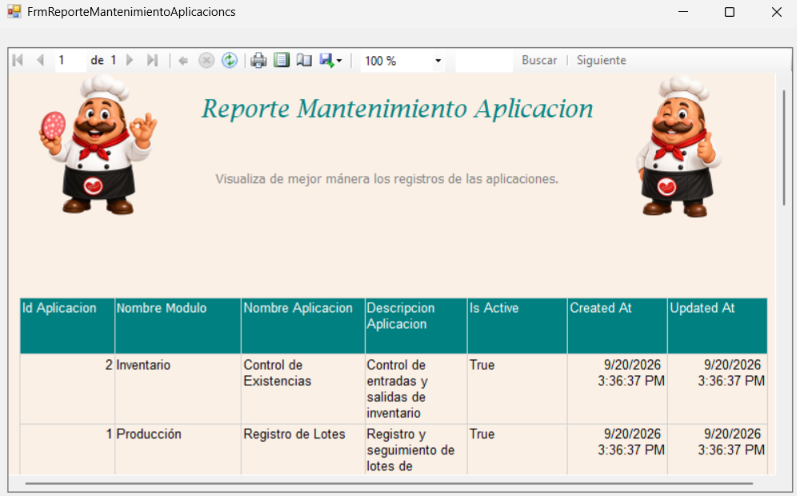
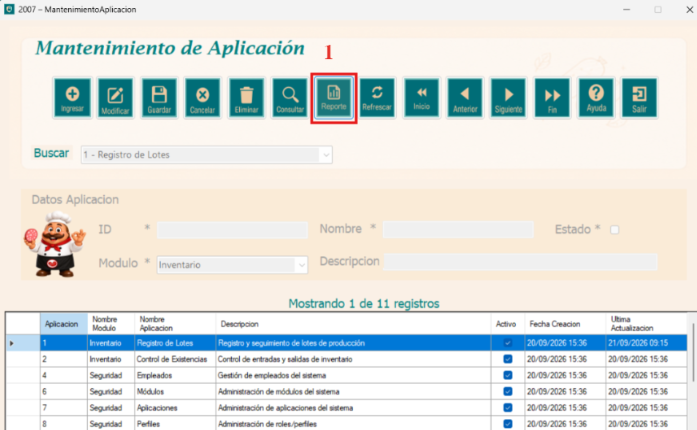
Subiendo ayudas 2.0 mejorado

diff --git a/ayuda/componentes/seguridad/SeguridadAyudas/Aplicaciones_Seguridad.html b/ayuda/componentes/seguridad/SeguridadAyudas/Aplicaciones_Seguridad.html
@@ -44,85 +44,100 @@
 
         <br><br><br>
 
-        <h2>¿Cómo ingresar una aplicación?</h2>
+        <h2>Ingresar y Guardar una Aplicación</h2>
         <br>
-        <p> A continuación se detallan los pasos:
-                1. Presionar el botón Ingresar para habilitar el formulario. 
-                2. Se selecciona el módulo al que pertenece la aplicación desde el combo desplegable.
-                3. Ingresar el nombre, la descripción y marque el checkbox de Estado, 
-                    si la aplicación estará activa. 
-                4. Una vez que se termine de llenar los campos, presionar Guardar para almacenar el registro.
+        <p> El botón Ingresar habilita el formulario para registrar una nueva aplicación. 
+            Los pasos para seguir son los siguientes:
+                1. Si se desea ingresar un registro se debe presionar el botón "Ingresar".
+                2. Se desbloquea la sección de datos y se rellenan los campos.
+                3. Se presiona el botón Guardar y mostrará un mensaje "Grabación exitosa".
         </p>
-        <img class="imgVentana" src="Imagenes/MantenimientoAplicacion/IngresarAplicacion.png">
+        <img class="imgVentana" src="Imagenes/MantenimientoAplicacion/IngresaryGuardarAplicacion.png">
 
         <br><br><br>
 
-        <h2>¿Cómo modificar una aplicación?</h2>
+        <h2>Modificar Aplicación</h2>
         <br>
-        <p> A continuación se detallan los pasos:
-                1. Seleccionar la fila correspondiente en la tabla.
-                2. Los datos se cargarán automáticamente en el formulario. 
-                3. Realice los cambios necesarios y presione el botón Modificar para guardarlos. 
-                4. Si no selecciona ninguna fila, el sistema mostrará un aviso indicando que debe seleccionar un registro primero.
-        </p>
-        <img class="imgVentana" src="Imagenes/MantenimientoAplicacion/ModificacionAplicacion.png">
+        <p> El botón Modificar permite actualizar un registro de la base de datos. 
+            Los pasos para modificar un registro son los siguientes:
+                1. Seleccionar una fila de la tabla, automáticamente se rellenan los campos del formulario.
+                2. Se cambia el campo que se desea modificar.
+                3. Se presiona el botón Modificar, mostrando un mensaje de confirmación.
+                    </p>
+        <img class="imgVentana" src="Imagenes/MantenimientoAplicacion/ModificarAplicacion.png">
 
         <br><br><br>
 
-        <h2>¿Cómo eliminar una aplicación?</h2>
+        <h2>Cancelar Aplicación</h2>
         <br>
-        <p> A continuación se detallan los pasos:
-                1. Seleccionar la fila que desea remover de la tabla.
-                2. Presionar el botón Eliminar. 
-                3. Se solicitará confirmación antes de proceder. 
-                4. Al confirmarse, el registro será removido del sistema.
+        <p> El botón Cancelar cancela la operación en curso y restablece el formulario a su estado inicial.
+            Los pasos para utilizarlo son los siguientes:
+                1. Presionar el botón Cancelar durante cualquier operación de ingreso o modificación.
+                2. Los campos del formulario se limpiarán y la sección de datos volverá a bloquearse.
         </p>
-        <img class="imgVentana" src="Imagenes/MantenimientoAplicacion/EliminacionAplicacion.png">
+        <img class="imgVentana" src="Imagenes/MantenimientoAplicacion/CancelarAplicacion.png">
+
+        <br><br><br>
+
+        <h2>Eliminar Aplicación</h2>
+        <br>
+        <p> El botón Eliminar permite remover un registro de la tabla. 
+            Los pasos para utilizarlo son los siguientes:
+                1. Seleccionar el registro dentro de la tabla.
+                2. Presionar el botón Eliminar, aparecerá un mensaje de confirmación para eliminar el registro.
+        </p>
+        <img class="imgVentana" src="Imagenes/MantenimientoAplicacion/EliminarAplicacion.png">
 
         <br><br><br>
         
-        <h2>¿Cómo filtrar datos de una aplicación?</h2>
+        <h2>Filtrar Datos (Consultar)</h2>
         <br>
-        <p> A continuación se detallan los pasos: 
-                1. Seleccionar el criterio de búsqueda en el combo Buscar. 
-                2. Presionar el botón Consultar. 
-                3. Se mostrará en la tabla todos los registros que coincidan con el criterio ingresado. 
+        <p> Para filtrar los datos, a continuación se detallan los pasos:
+                1. Seleccionar el criterio de búsqueda en el combo Buscar.
+                2. Presionar el botón Consultar.
+                3. Se mostrará en la tabla todos los registros que coincidan con el criterio ingresado.
                 4. También se incluye un contador de registros para mejor control del listado mostrado.
         </p>
         <img class="imgVentana" src="Imagenes/MantenimientoAplicacion/FiltrarAplicacion.png">
 
         <br><br><br>
 
+        <h2>Reportes</h2>
+        <br>
+        <p> Este botón abre una ventana con el listado completo de aplicaciones registradas. Los pasos para utilizarlo son los siguientes:
+                1. Presionar el botón Reporte.
+                2. Se abrirá una ventana con el listado completo de aplicaciones, desde la barra superior es posible desplazarse entre páginas, imprimir o exportar el reporte.
+        </p>
+        <img class="imgVentana" src="Imagenes/MantenimientoAplicacion/ReporteAPlicacion.png">
+
+        <br><br><br>
+
+        <h2>Refrescar</h2>
+        <p> Este botón recarga todos los datos desde la base de datos y restablece el formulario 
+            a su estado inicial. Los pasos para utilizarlo son los siguientes:
+                1. Presionar el botón Refrescar.
+                2. La tabla se actualizará mostrando la información más reciente registrada en el sistema.
+        </p>
+        <img class="imgVentana" src="Imagenes/MantenimientoAplicacion/RefrescarAplicacion.png">
+
+        <br><br><br>
+
         <h2>Botones de navegación</h2>
         <br>
-        <p> El formulario proporciona el botón Refrescar que se encarga de recargar todos los datos desde la base de datos y 
-            botones de navegación que permiten desplazarse entre los registros de la tabla: 
-                1. Inicio va al primer registro.
-                2. Anterior retrocede uno. 
-                3. Siguiente avanza uno.  
-                4. Fin va al último registro. 
+        <p> El formulario proporciona 4 botones que permiten desplazarse entre los registros de la tabla. Los pasos para utilizarlos son los siguientes:
+                1. Presionar el botón Inicio para ir al primer registro.
+                2. Presionar el botón Anterior para retroceder al registro anterior.
+                3. Presionar el botón Siguiente para avanzar al registro posterior.
+                4. Presionar el botón Fin para ir al último registro.
             
         </p>
         <img class="imgVentana" src="Imagenes/MantenimientoAplicacion/BotonesAplicacion.png">
 
-                <br><br><br>
-
-        <h2>Reportes</h2>
-        <br>
-        <p> El sistema permite obtener un reporte de todas las aplicaciones registradas y para poder observarlo se debe seguir 
-            los siguientes pasos:
-                1. Presionar el botón Reporte.
-                2. Se abrirá una ventana con el listado completo donde se muestra el ID, nombre, descripción, módulo al que pertenece,
-                    estado y fechas de creación y última actualización. 
-                3.  Desde la barra superior del reporte es posible desplazarse entre páginas, actualizar la información, ajustar el zoom, 
-                    buscar un texto, imprimirlo o exportarlo. 
-        </p>
-        <img class="imgVentana" src="Imagenes/MantenimientoAplicacion/ReporteAPlicacion.png">
 
         <h2>Salir del sistema</h2>
         <br>
-        <p> Para salir de la ventana de aplicación, se deberá presionar el botón de salir o dar click en la X que se encuentra en la parte
-            superior derecha.
+        <p> El botón de salir cierra la ventana de Mantenimiento de Aplicación, se debe de seguir el siguiente paso:
+                1. Presionar el botón Salir o dar click en la X de la parte superior derecha. La ventana se cerrará y regresará al menú principal.
         </p>
         <img class="imgVentana" src="Imagenes/MantenimientoAplicacion/SalirAplicacion.png">
     </div>
